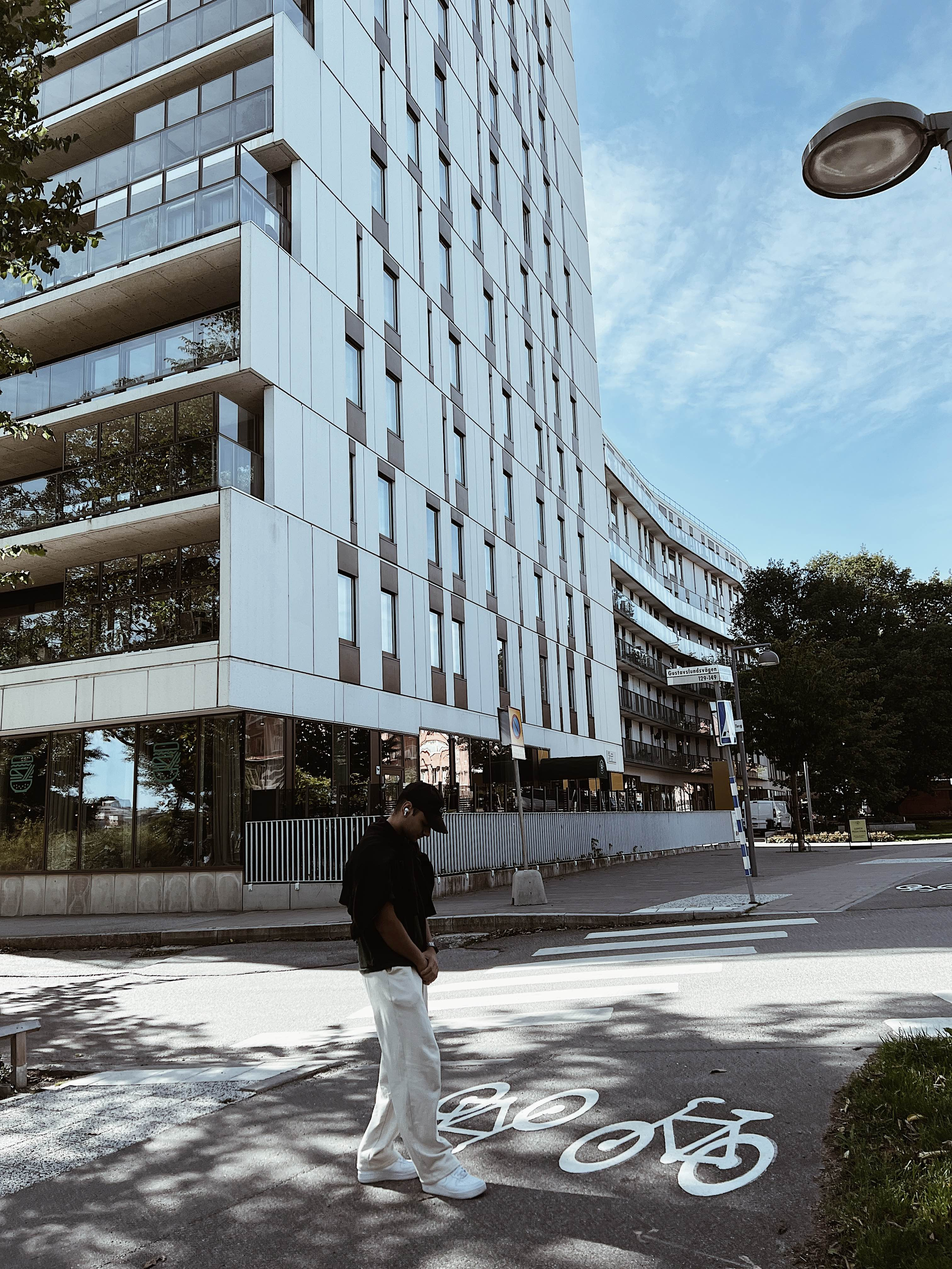
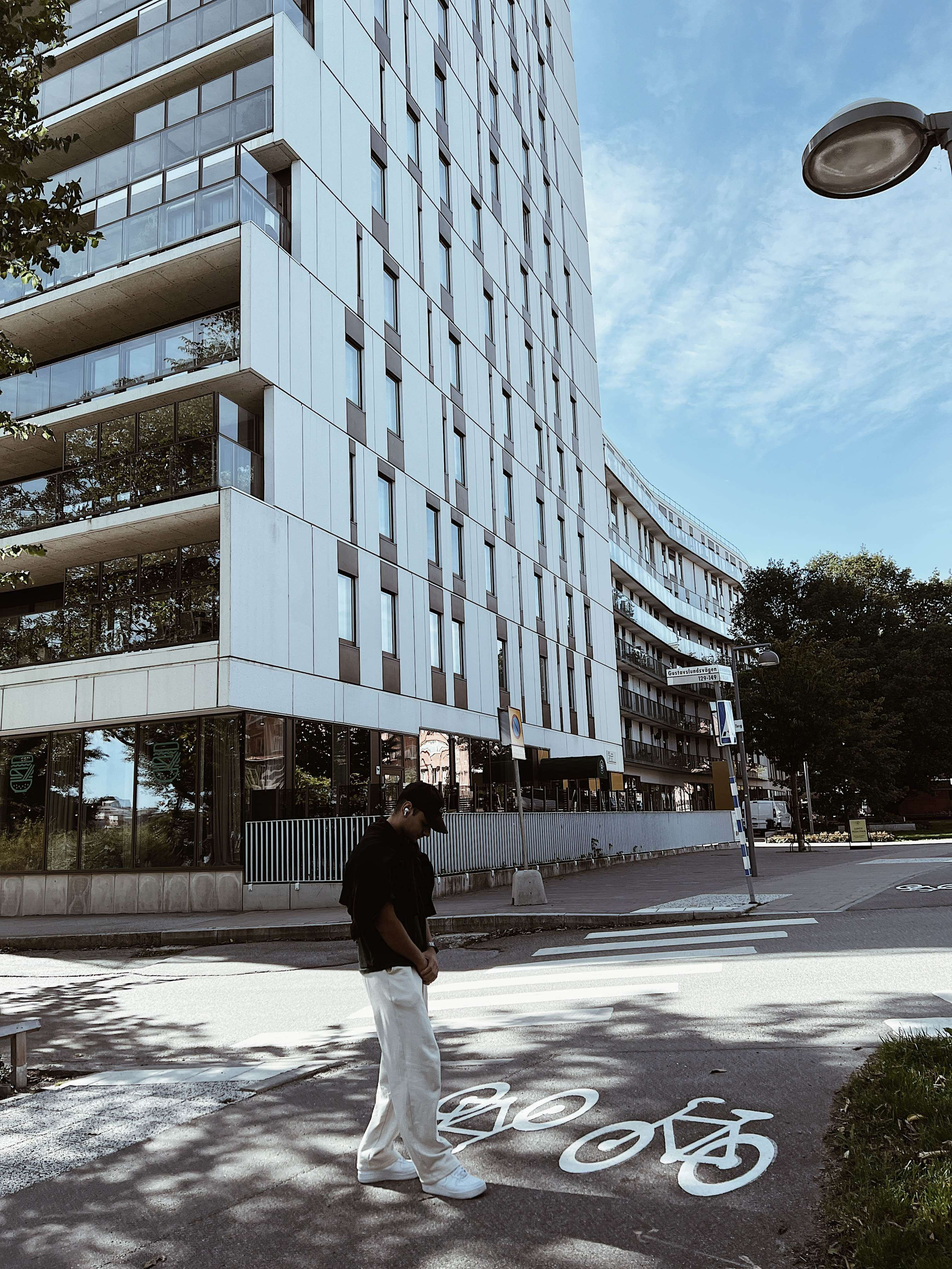
PerfomanceOptimized

diff --git a/src/data/Photos.ts b/src/data/Photos.ts
@@ -5,7 +5,7 @@ export const Photos = [
     height: 140,
   },
   {
-    src: "1.png",
+    src: "1.jpg",
     width: 100,
     height: 130,
   },
